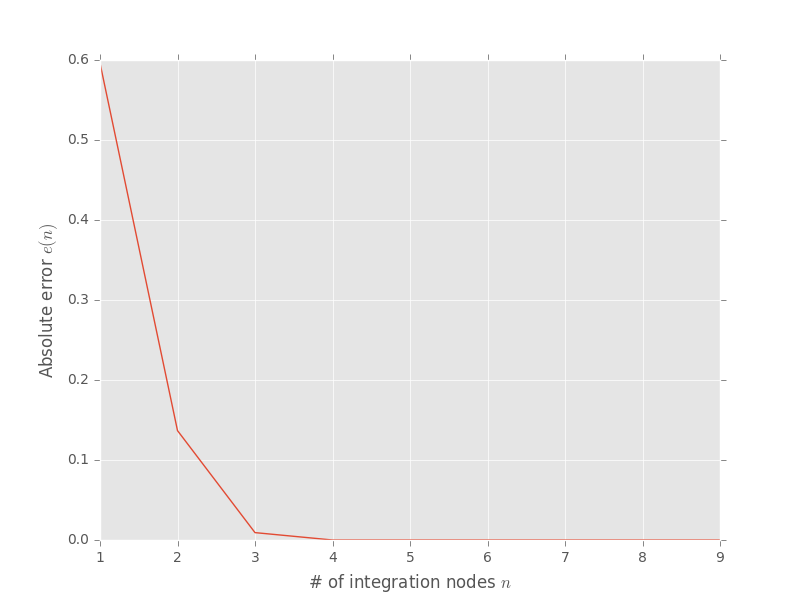
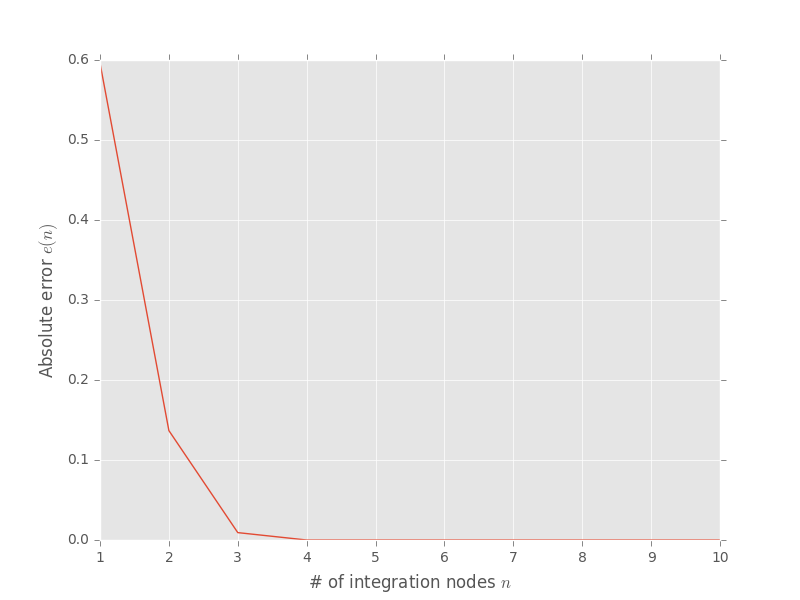
Updated Q_A.py to show proper amount of nodes

diff --git a/Quadrature_Analysis.py b/Quadrature_Analysis.py
@@ -8,7 +8,7 @@ import Gauss_Legendre as Leg
 ################################################################################
 
 
-
+##Repated Gauss-Legendre quadrature for given nodes {n1, n1+1,...,n2-1,n2}. Save everything to an .asc-file
 def Repeated_Quadrature(ASCFILE,XMLFILE,n1,n2):
     with open('ASCfiles/'+ASCFILE,'w') as errorFile:
         error = [0]*(abs(n2-n1)+1)
@@ -18,12 +18,13 @@ def Repeated_Quadrature(ASCFILE,XMLFILE,n1,n2):
             error[i-n1] = abs((numeric-analytic)/analytic)
             errorFile.write(str(error[i-n1])+"\t"+str(i)+"\n")
         print("File successfully written.")
-    
+        
+##Plot the convergence for the performed quadrature. Save plot to .png-file    
 def Convergence_Graph(ASCFILE,n1,n2):
     with open('ASCfiles/'+ASCFILE,'r') as plotFile:
-        error = [0]*abs(n2-n1)
-        n = [0]*abs(n2-n1)     
-        for i in range(0,abs(n2-n1)):
+        error = [0]*(abs(n2-n1)+1)
+        n = [0]*(abs(n2-n1)+1)     
+        for i in range(0,abs(n2-n1)+1):
             temp = plotFile.readline().split()
             error[i]    = float(temp[0])
             n[i]        = int(temp[1])
@@ -32,13 +33,12 @@ def Convergence_Graph(ASCFILE,n1,n2):
     plt.plot(n,error)
     plt.xlabel(r'# of integration nodes $n$')
     plt.ylabel(r'Absolute error $e(n)$')
-    plt.xticks(np.arange(n1, n2, 1.0))
+    plt.xticks(np.arange(n1, n2+1, 1.0))
     pngName = ASCFILE.split('.')
     pngName = pngName[0]+"Figure.png"
     plt.savefig('ErrorPlots/'+pngName)
     
-    plt.show()
-    
+    #plt.show()
    
     
 def main():
